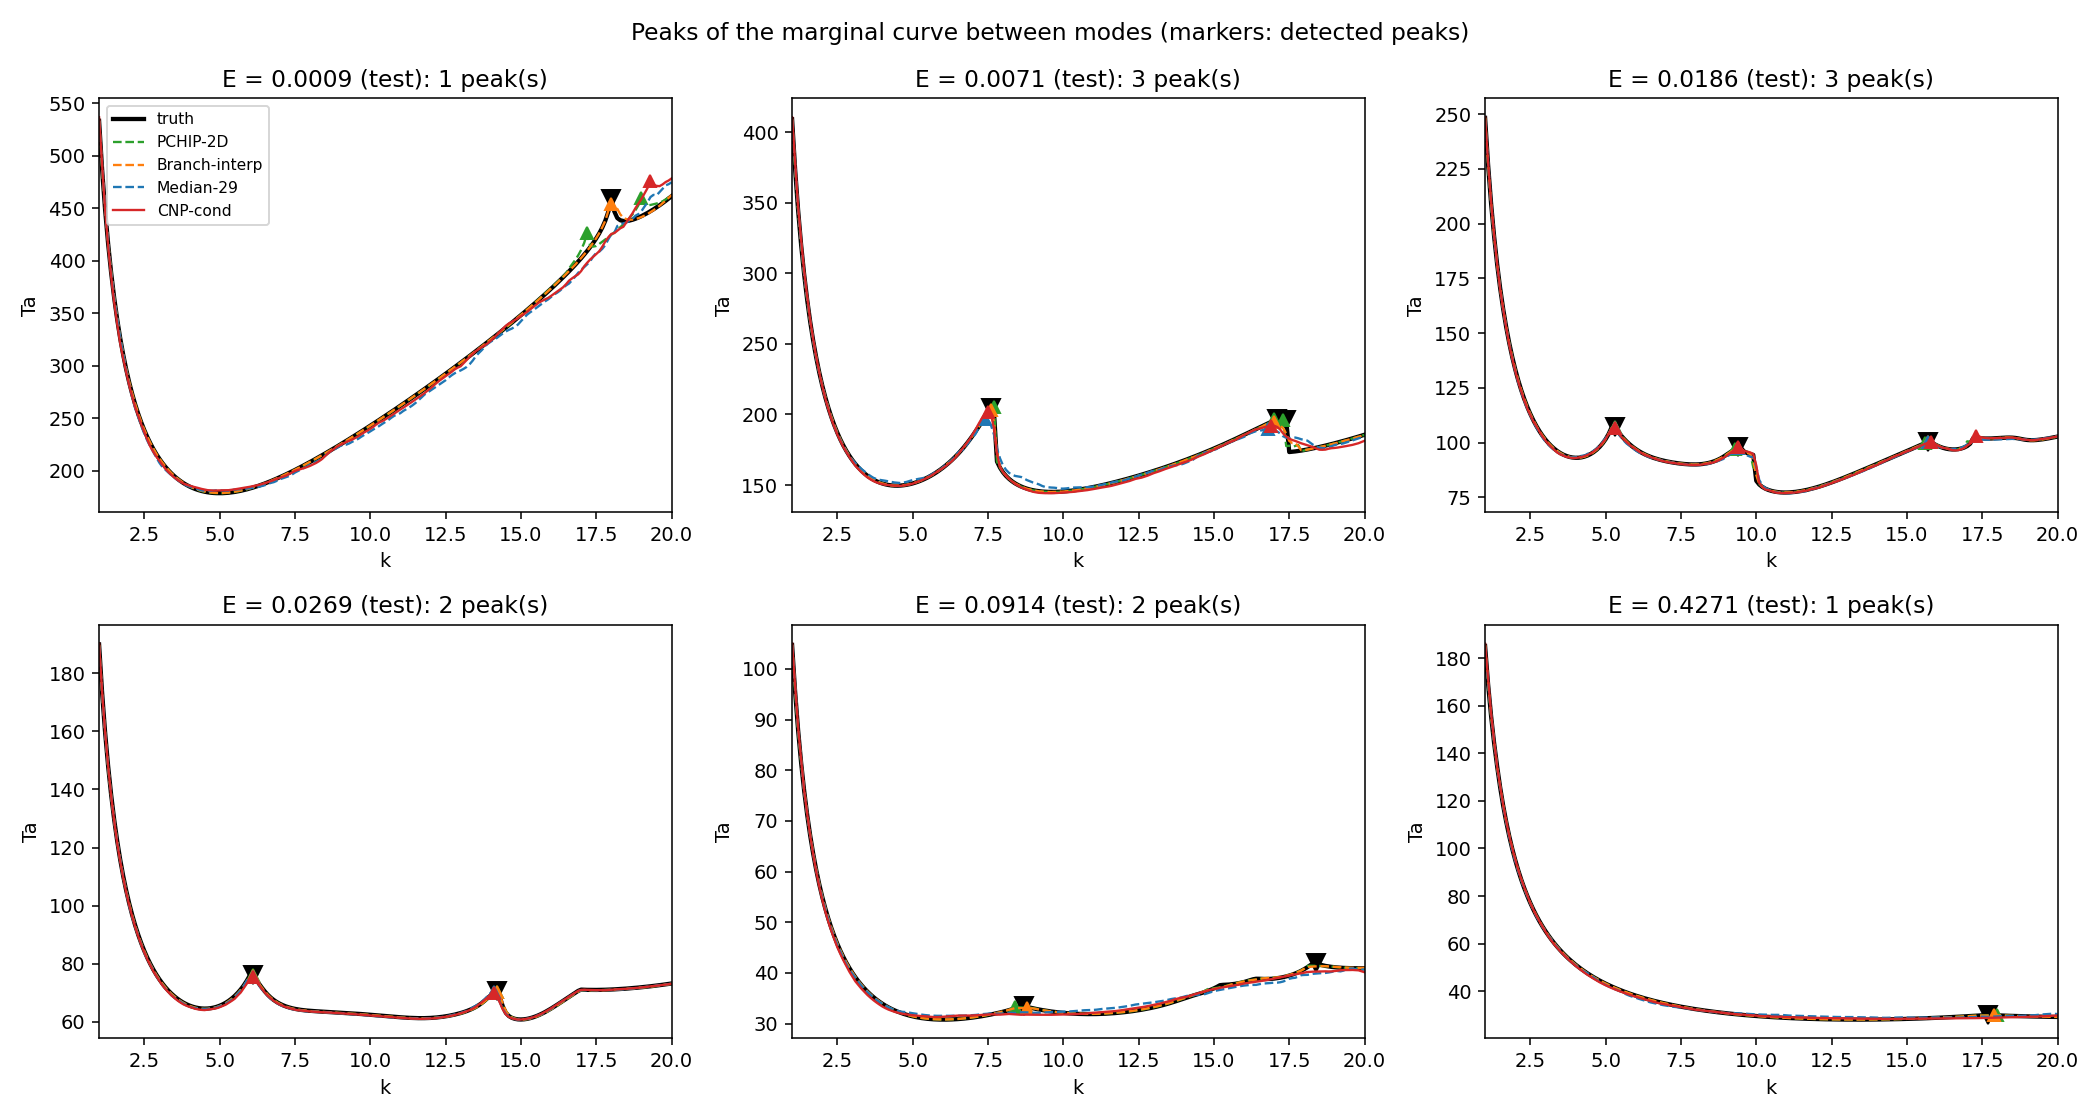
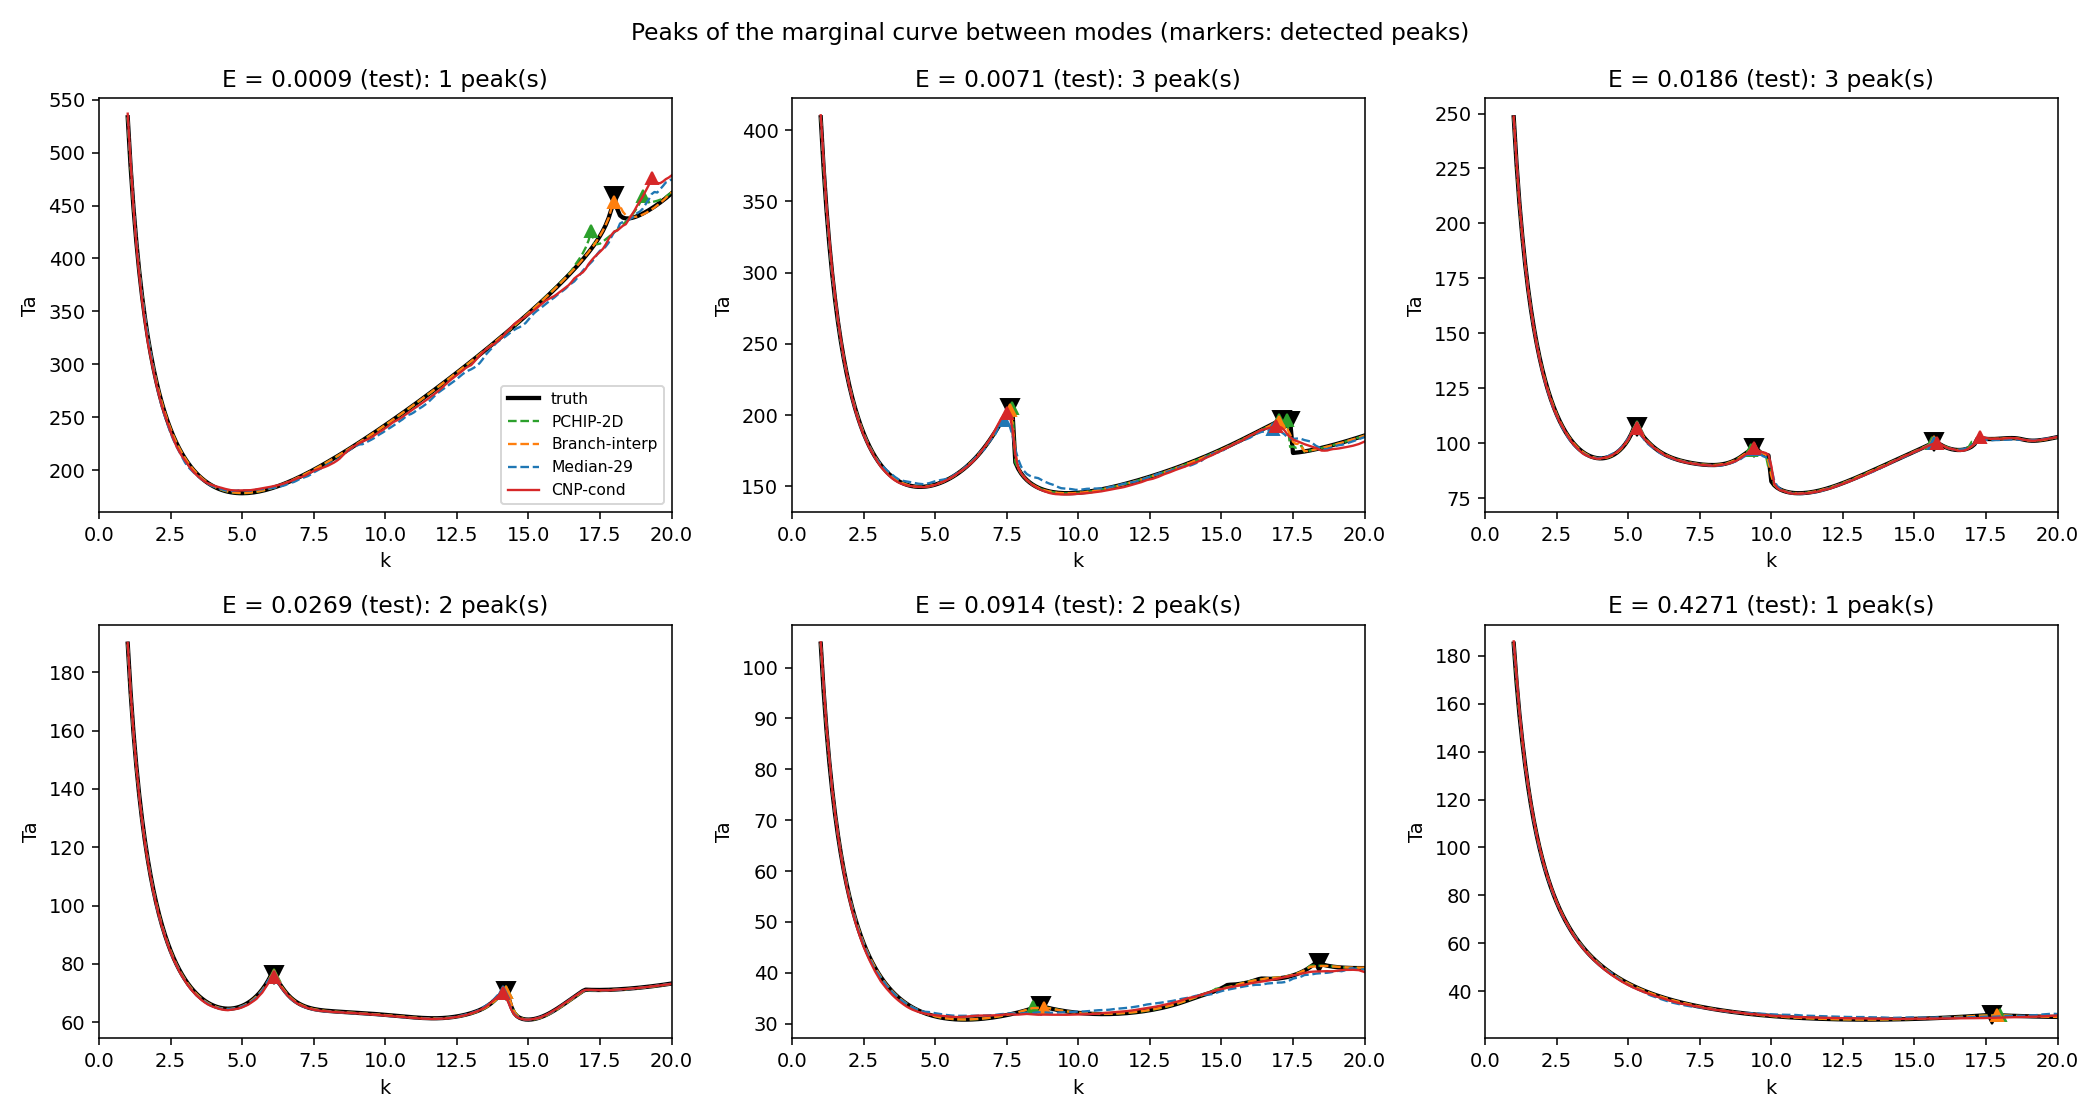
Stability figures: same k range, 0 to 20, on every panel
The branch table covers k <= 20, so every marginal-curve figure now spans that
same range, Floquet curve included, and the vertical scale is set on what falls
inside it.

diff --git a/leakfree/modes_test.py b/leakfree/modes_test.py
@@ -248,7 +248,10 @@ for ax, E in zip(axs, picks):
     for n in ["truth"] + METHODS:
         c = store[E][n]; ax.plot(kk, c, color=col[n], lw=2.2 if n == "truth" else 1.2, ls="-" if n in ("truth", "CNP-cond") else "--", label=n)
         kp_, hp_ = peaks(c, thr); ax.plot(kp_, hp_, "v" if n == "truth" else "^", color=col[n], ms=9 if n == "truth" else 6)
-    ok = ~np.isnan(store[E]["truth"]); ax.set_xlim(kk[ok][0], kk[ok][-1])
+    ax.set_xlim(0.0, 20.0)                       # the branch table covers k <= 20: same range on every figure
+    m20 = (kk <= 20.0) & ~np.isnan(store[E]["truth"])
+    lo, hi = np.nanmin(store[E]["truth"][m20]), np.nanmax(store[E]["truth"][m20])
+    ax.set_ylim(lo - 0.05 * (hi - lo), hi + 0.05 * (hi - lo))
     ax.set_title(f"E = {E:.4g} (test): {npk[E]} peak(s)"); ax.set_xlabel("k"); ax.set_ylabel("Ta")
 axs[0].legend(fontsize=8); fig.suptitle("Peaks of the marginal curve between modes (markers: detected peaks)"); fig.tight_layout()
 fig.savefig(OUT / "fig_modes_curves.png", dpi=140)

diff --git a/leakfree/predictions_cases.py b/leakfree/predictions_cases.py
@@ -228,9 +228,9 @@ def panel(ax, E, zoom=None, legend=False, errors=True):
     for kb, _, _ in branches[MODELS[1]][E][1:]:               # junctions between predicted modes
         ax.axvline(kb[0], color="0.8", lw=0.8, ls=":", zorder=1)
     if zoom:
-        ax.set_xlim(*zoom[0]); ax.set_ylim(*zoom[1])
+        ax.set_xlim(0.0, KMAX_PLOT); ax.set_ylim(*zoom[1])   # same k range everywhere, zoom on Ta only
     else:
-        ax.set_xlim(kk[ok][0], kk[ok][-1])
+        ax.set_xlim(0.0, KMAX_PLOT)
     nbp = int((per_E[(per_E.model == "DIST") & (per_E.E == E)].n_branches_pred).iloc[0])
     ax.set_title(f"E = {E:g}   ({nb_true.get(E, '?')} branche(s), {len(kp_)} pic(s))", fontsize=10)
     ax.set_xlabel("k"); ax.set_ylabel("Ta")
